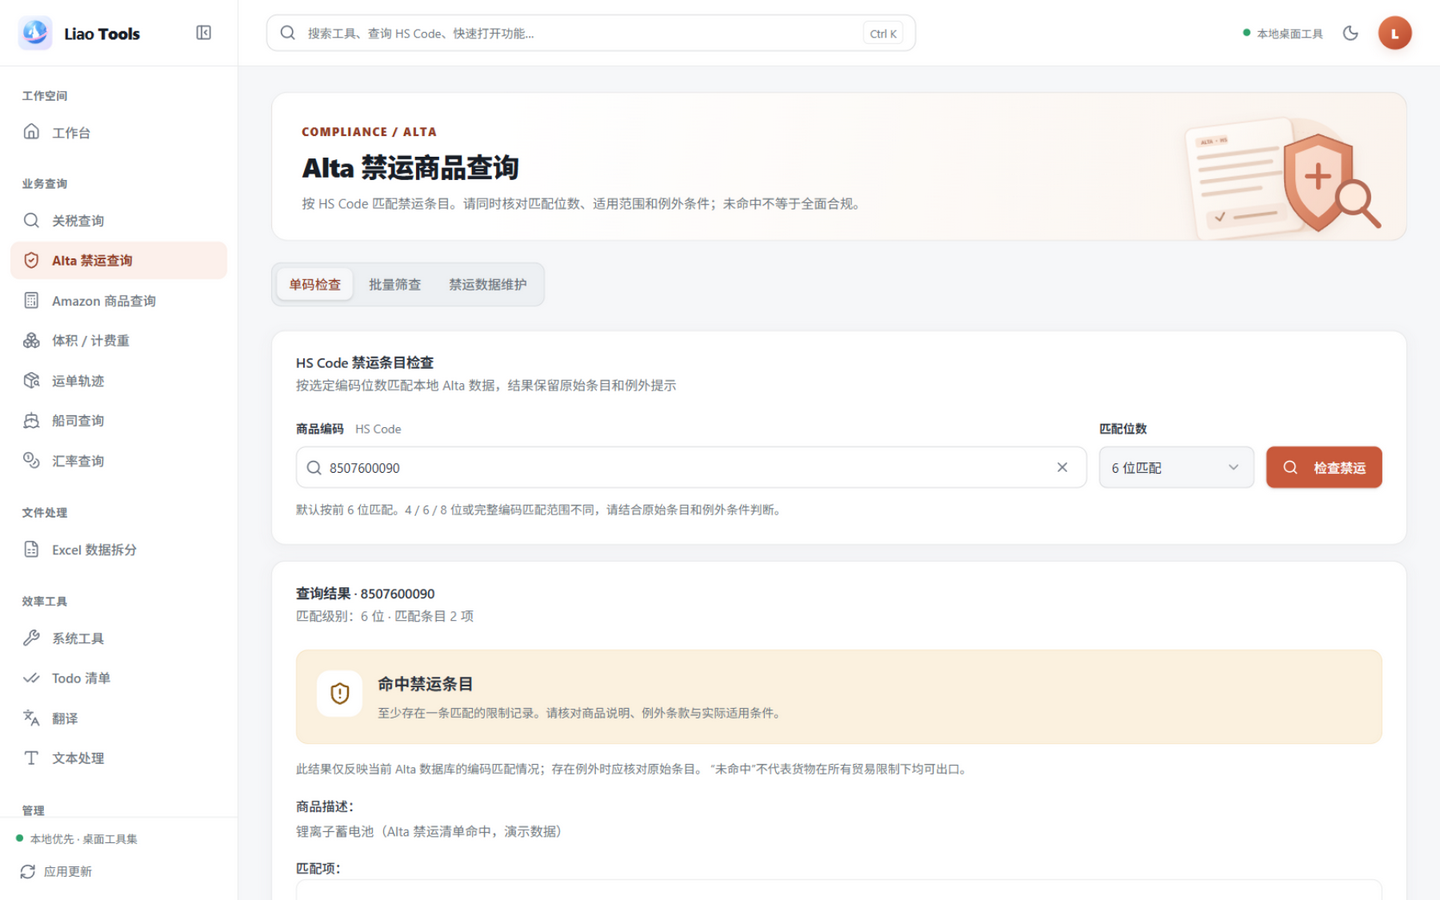
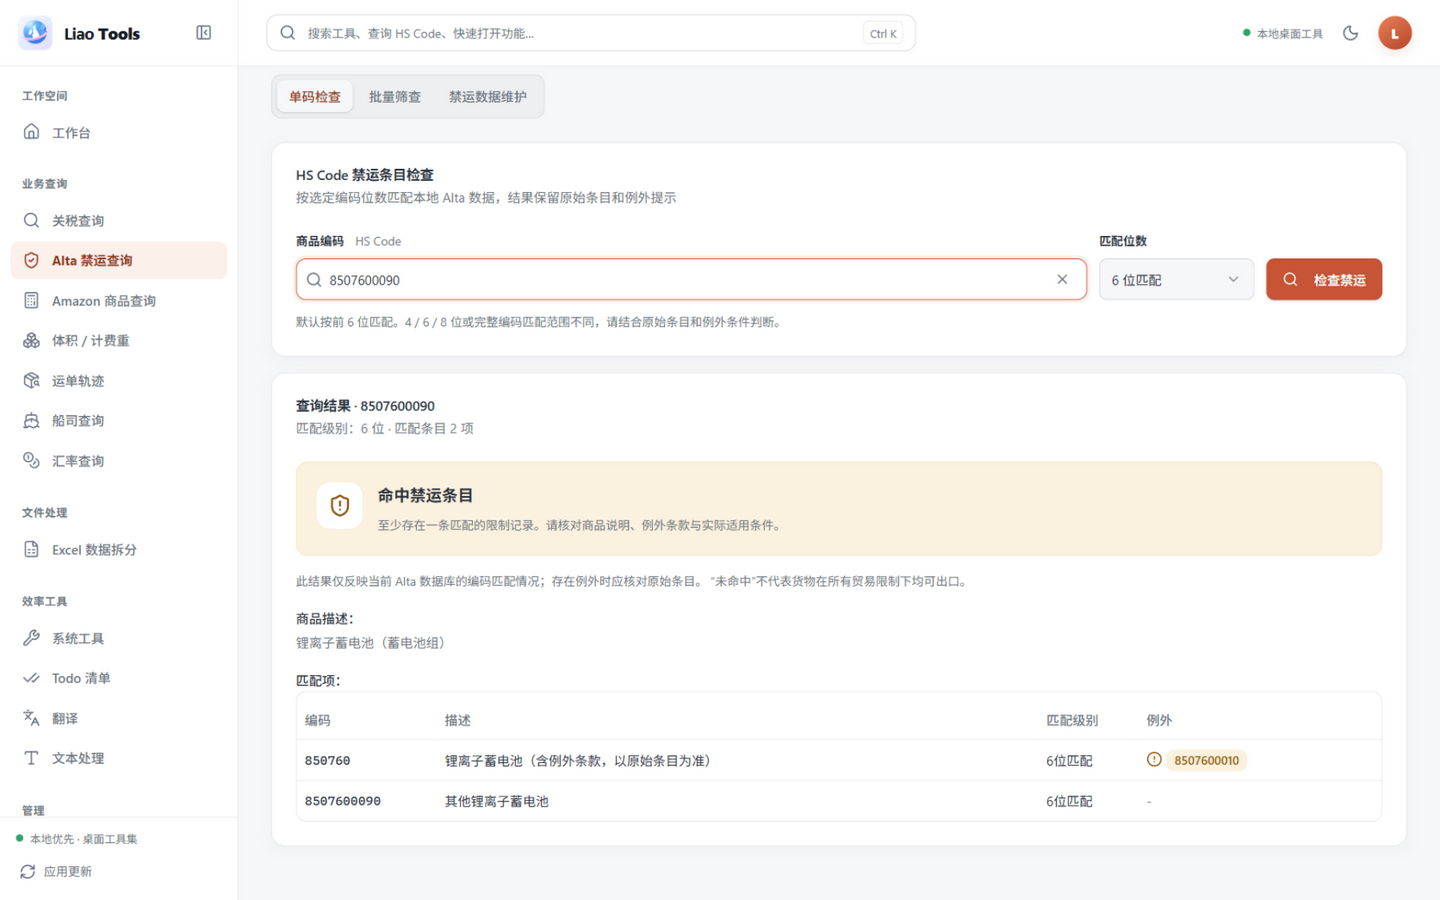
docs: Alta 页修正输入校验与命中结果说明

Changed region(s): [[0.1875, 0.0933, 0.9688, 0.9333], [0.8125, 0.1244, 0.9688, 0.3422], [0.75, 0.2489, 0.8125, 0.3422]]

diff --git a/website/guide/alta.md b/website/guide/alta.md
@@ -20,7 +20,7 @@ title: Alta 禁运商品查询
 
 ### 单码检查：核对一个 HS Code
 
-1. 在「商品编码（HS Code）」输入框中输入要检查的编码，例如 `8507600090`。输入框只接受数字（空格和连字符会被自动忽略）；输入内容后右侧会出现 × 按钮，点击可一键清空。
+1. 在「商品编码（HS Code）」输入框中输入要检查的编码，例如 `8507600090`。输入框用于数字编码（空格和连字符会被自动忽略；含其他字符时点击「检查禁运」会提示错误）；输入内容后右侧会出现 × 按钮，点击可一键清空。
 2. 在「匹配位数」下拉中选择匹配方式，默认「6 位匹配」，可选「4 位匹配」「6 位匹配」「8 位匹配」「完整编码」。4 / 6 / 8 位匹配按编码前几位与清单比对，「完整编码」要求整条编码与清单条目完全一致；位数越短，能命中的条目范围越宽。
 3. 点击「检查禁运」按钮（在输入框中按回车键等效）。查询完成后，下方出现「查询结果」卡片。
 
@@ -30,7 +30,7 @@ title: Alta 禁运商品查询
 - **当前数据库未命中**：当前匹配位数下没有匹配到禁运条目。这只说明本机这份清单没有查到对应记录，不代表货物全面合规或允许出口。
 - **编码无效**：提交的编码不满足要求，需要修正后重新检查。
 
-![单码检查命中状态：查询 8507600090 后显示「命中禁运条目」横幅，匹配级别 6 位、匹配条目 2 项](/images/alta/02-single-check.png)
+![单码检查命中状态：查询 8507600090 后显示「命中禁运条目」横幅，匹配级别 6 位、匹配条目 2 项，下方为「匹配项」表（编码、描述、匹配级别、例外）](/images/alta/02-single-check.png)
 
 ### 批量筛查：用 Excel 一次检查一批编码
 
